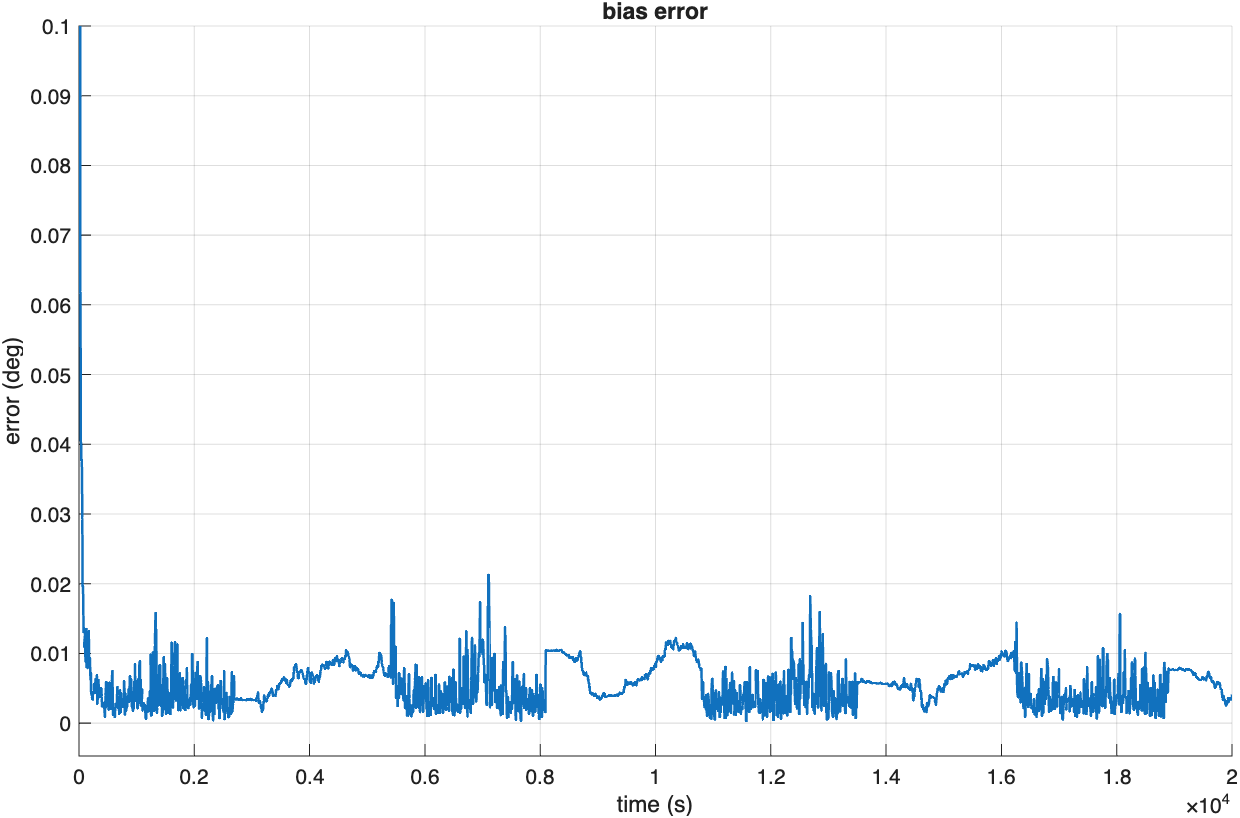
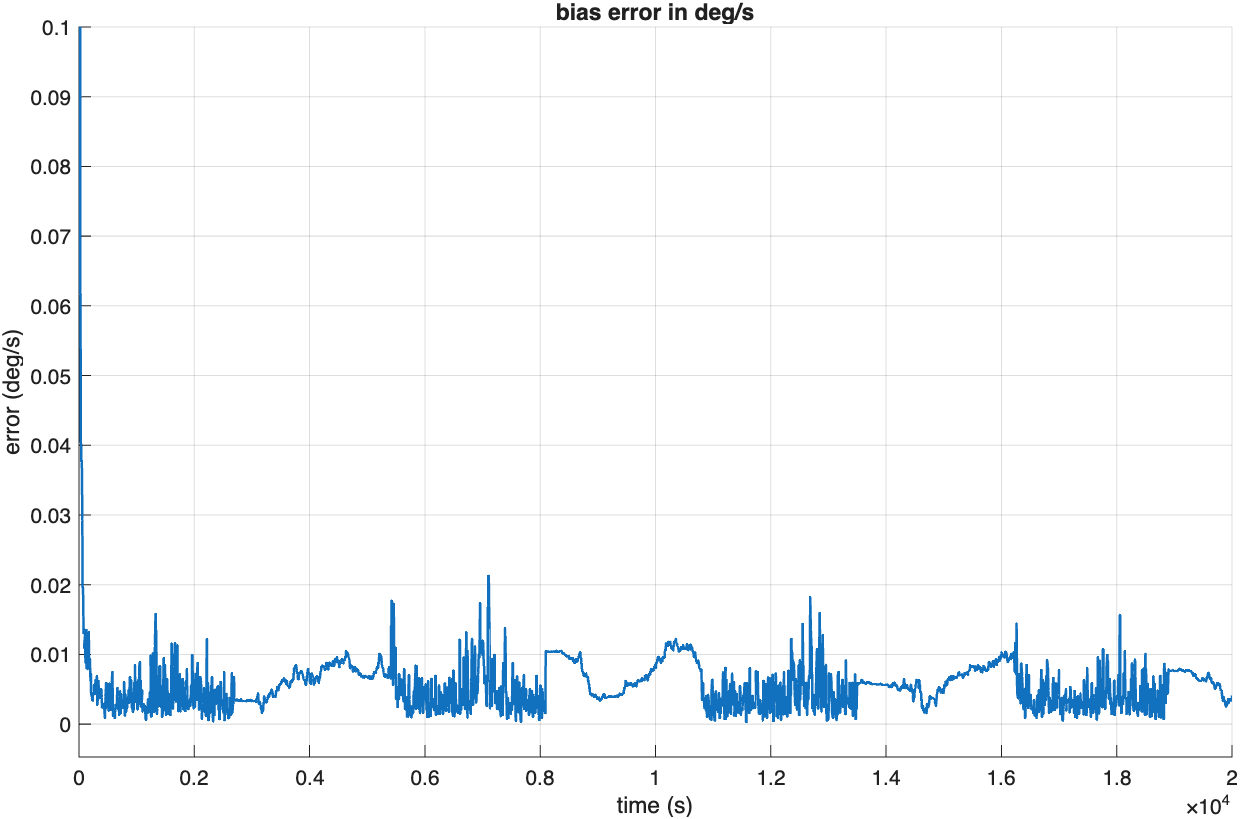
some edits to gyro units

diff --git a/MATLAB/Simulink/CubeSat Simulation Project-3/readmeStats.m b/MATLAB/Simulink/CubeSat Simulation Project-3/readmeStats.m
@@ -107,7 +107,7 @@ function out = readmeStats(file, runIndex, signalName, opts)
     biasName = firstPresent(["b_error" "MATLAB Function:5"], names);
     out.bias = [];
     if biasName ~= "" && biasName ~= signalName
-        out.bias = attitudeStats(file, SignalName=biasName, Units="deg/hr", ...
+        out.bias = attitudeStats(file, SignalName=biasName, Units="deg/s", ...
                                  SegmentSec=opts.SegmentSec, TStart=opts.TStart, ...
                                  RunIndex=runIndex);
         [tb, yb] = loadRunData(file, biasName, RunIndex=runIndex);
@@ -122,7 +122,7 @@ function out = readmeStats(file, runIndex, signalName, opts)
         else
             fprintf("  converged in       never settles inside 10%% of final\n");
         end
-        printByMode(out.bias, "deg/hr");
+        printByMode(out.bias, "deg/s");
     else
         fprintf("\n  (no bias-error signal in this run - skipping the bias table)\n");
     end
@@ -146,7 +146,7 @@ function [label, units] = describeSignal(name)
 %DESCRIBESIGNAL  Readable title and units for a logged signal name.
     switch char(name)
         case {'b_error', 'MATLAB Function:5'}
-            label = "Gyro bias error";  units = "deg/hr";
+            label = "Gyro bias error";  units = "deg/s";
         case {'deg_error', 'MATLAB Function:2', 'AttitudeError', 'error'}
             label = "Attitude error";   units = "deg";
         otherwise

diff --git a/MATLAB/Algorithms/PD_controller.m b/MATLAB/Algorithms/PD_controller.m
@@ -7,7 +7,7 @@
 % tau - torque in N-m, body coordinates
 
 
-function tau = PD_controller(omega, q_error)
+function tau = PD_loop(omega, q_error)
 
     arguments
         omega (3,1) double
@@ -43,6 +43,7 @@ function tau = PD_controller(omega, q_error)
     Kp0 = 0.034;
     Kd0 = 0.42;
     max_tau = 5;
+    min_tau = -5;
     I_body = [3.0054115e-02, -5.1674000e-05, 2.5075000e-05 ;-5.1674000e-05, 1.1430611e-02, -3.6481690e-03 ;2.5075000e-05, -3.6481690e-03, 2.3052295e-02];
     
     Kp = [Kp0, Kp0, Kp0];
@@ -55,5 +56,5 @@ function tau = PD_controller(omega, q_error)
         tau(i) = Pi - Di;
     end
     tau = I_body * tau;
-    tau = min(tau, max_tau);
+    tau = max(min(tau, max_tau), min_tau);
 end

diff --git a/MATLAB/Simulink/CubeSat Simulation Project-3/attitudeStats.m b/MATLAB/Simulink/CubeSat Simulation Project-3/attitudeStats.m
@@ -13,7 +13,7 @@ function stats = attitudeStats(source, opts)
 %       s = attitudeStats(simOut);
 %
 %   Gyro bias error (same maths, different signal and units):
-%       b = attitudeStats(simOut, SignalName="b_error", Units="deg/hr");
+%       b = attitudeStats(simOut, SignalName="b_error", Units="deg/s");
 %
 %   NAME-VALUE
 %     SignalName   Logged signal to read.                    ("deg_error")

diff --git a/Readme.md b/Readme.md
@@ -24,8 +24,7 @@ MATLAB Satellite Scenario Viewer from Simulink model, 50x real time, tracking Pr
 </p>
 
 ## Performance
-I ran many simulations in Simulink to test the preformance of the full algorithm. 
-
+I ran many simulations in Simulink to test the performance of the full algorithm, achieving 0.77° RMS pointing error with two-vector measurements and 3.6° RMS magnetometer-only, against a ±10° requirement.
 
 ### Test conditions
 
@@ -38,20 +37,22 @@ I = \begin{bmatrix}
 2.51\times10^{-5} & -3.65\times10^{-3} & 0.0231
 \end{bmatrix}\ \mathrm{kg\,m^2}
 ```
-- **Sensors:** magnetometer (σ = 10 nT) on a 10 s cadence, photodiodes **not modeled**
-  (the 2-vector mode substitutes a fixed ECI reference vector `[1 0 0]` with 0.01 1σ
-  unit-vector noise), gyro 0.057 °/s noise + (0.115, −0.057, 0.086) °/s constant bias,
+- **Sensors:** magnetometer (σ = 10 nT) on a 10 s cadence, photodiodes modeled with 
+  a fixed sun ECI position at `[1 0 0]` with 0.01 1σ
+  unit-vector noise, gyro 0.057 °/s noise + (0.115, −0.057, 0.086) °/s constant bias,
   sampled at 10 Hz
 - **Actuators:** **ideal torque actuators** — the plant applies the commanded body torque
-  directly, with no magnetorquer dipole model and 5 Nm saturation limit (to be tuned)
-- **Simulation:** 20000s stop time, normal solver, 10 HZ on MUKF, 1 HZ on PD loop 
+  directly, clipped at ±5 N·m, with no magnetorquer dipole model. Real magnetorquers
+  produce ~10⁻⁵ N·m, so the settling times below reflect controller gains, not
+  achievable slew performance.
+- **Simulation:** 20,000 s (5.6 h) stop time, normal solver, 10 Hz on MUKF, 1 Hz on PD loop
 
 ### Monte Carlo Validation on PD controller 
-Ran a 100 trial monte carlo simulation to 300 s with randommized intital angular velocity and attitude to test PD settling. 
+Ran a 100-trial Monte Carlo simulation to 300 s with randomized initial angular velocity and attitude to test PD settling.
 
 <p align="center">
   <img src="MATLAB/docs/monte_carlo.png" width="600" alt="Monte Carlo"><br>
-  <em>Results from 100 trial monte carlo simulation</em>
+  <em>Results from the 100-trial Monte Carlo simulation</em>
 </p>
 
 | Metric | Value |
@@ -65,36 +66,37 @@ Ran a 100 trial monte carlo simulation to 300 s with randommized intital angular
 | Steady-state drift | -3.44×10⁻³ °/s |
 
 ### Attitude accuracy from MUKF
-Error (angular error) between q_est and q_true, and error (norm) between bias_est and bias_true, over 6 hour run in alternating measurement mode.. 
+Error (angular error) between q_est and q_true, and error (norm) between bias_est and bias_true, over a 20,000 s (5.6 h) run in alternating measurement mode, first 300s included.
 
 <p align="center">
   <img src="MATLAB/docs/attitude_error.png" width="600" alt="attitude_error"><br>
-  <em> Error in degrees of MUKF estimated attitude and true attitude <em>
+  <em> Error in degrees of MUKF estimated attitude and true attitude </em>
 </p>
 
 <p align="center">
   <img src="MATLAB/docs/bias_error.png" width="600" alt="bias_error"><br>
-  <em> Error in degree/h of MUKF estimated gyro bias and true gyro bias<em>
+  <em> Error in °/s of MUKF estimated gyro bias and true gyro bias </em>
 </p>
 
 
 | Value | Mode | RMS error | 3-sigma | max |
 | --- | --- | --- | --- | --- |
-| q_estimate | 2-vector (sun + magnetometer) | 0.753° | 1.454° | 4.104° |
+| q_estimate | 2-vector (reference vector + magnetometer) | 0.753° | 1.454° | 4.104° |
 | q_estimate | 1-vector (magnetometer only) | 3.150° | 4.712° | 7.002° |
-| Gyro bias | 2-vector| 0.009 °/hr | 0.023 °/hr | 0.170 °/hr |
-| Gyro bias | 1-vector | 0.007 °/hr | 0.007 °/hr | 0.012 °/hr |
+| Gyro bias | 2-vector | 0.009 °/s | 0.023 °/s | 0.170 °/s |
+| Gyro bias | 1-vector | 0.007 °/s | 0.007 °/s | 0.012 °/s |
 
 ### Pointing Error
-Degrees of error away from pointing at providence, with the first 300s (settling) excluded. Mission requirment is 10 degrees.
+Degrees of error away from pointing at Providence, with the first 300 s (settling) excluded. Mission requirement is ±10°.
 
 <p align="center">
-  <img src="MATLAB/docs/pointing_error.png" width="600" alt="Pointing_error"><br>
+  <img src="MATLAB/docs/pointing_error.png" width="600" alt="Pointing error vs time: under 4° in two-vector windows, up to 9.7° in the shaded magnetometer-only windows"><br>
+  <em>Pointing error vs time; shaded windows are magnetometer-only</em>
 </p>
 
 | Mode | RMS | 3-sigma | Max |
 | --- | --- | --- | --- |
-| 2-vector (sun + magnetometer) | 0.765° | 1.231° | 3.878° |
+| 2-vector (reference vector + magnetometer) | 0.765° | 1.231° | 3.878° |
 | 1-vector (magnetometer only) | 3.579° | 6.490° | 9.745° |
 
 ### Component verification
@@ -104,7 +106,7 @@ Individual tests for each script.
 | --- | --- | --- |
 | `propagate_orbital_elements` | `propagateOrbit` / `ijk2keplerian` | 1e-8° over a 2 h arc, e in [0.05, 0.95] |
 | `magnetosphere` | `wrldmagm` | exact to 10 different common locations |
-| `pointing_error` | Aerospace Blockset nadir-pointing block | exact over 20000s orbit |
+| `pointing_error` | Aerospace Blockset nadir-pointing block | exact over a 20,000 s run |
 
 ## Running it
 
@@ -115,10 +117,10 @@ inside that model.
 
 Requires MATLAB, Simulink, Aerospace Blockset, and Aerospace Toolbox.
 
-To run the Monte Carlo study, open the file in matlab with the Simulink model open, then call
+To run the Monte Carlo study, open the file in MATLAB with the Simulink model open, then call
 
 ```matlab
-r = runCubeSatMonteCarlo(NumTrials=100, StopTime=900, SettleTolDeg=1.5);
+r = runCubeSatMonteCarlo(NumTrials=100, StopTime=300, SettleTolDeg=2);
 summary(r)
 ```
 
@@ -128,7 +130,7 @@ summary(r)
 | --- | --- |
 | [`MATLAB/Algorithms/`](MATLAB/Algorithms) | The algorithms, as standalone `.m` files |
 | [`MATLAB/Simulink/CubeSat Simulation Project-3/`](MATLAB/Simulink/CubeSat%20Simulation%20Project-3) | The full Simulink project and model |
-| [`MATLAB/docs/`](MATLAB/docs) | Demo gif |
+| [`MATLAB/docs/`](MATLAB/docs) | Demo gif and performance plots |
 | [`C/`](C) | C port, other algorithms to be added |
 
 
@@ -146,7 +148,7 @@ WMM2025 spherical-harmonic field model. I integrated it into the Simulink contro
 
 Multiplicative unscented Kalman filter, 6-state error
 (3 attitude + 3 gyro bias), 13 sigma points, switching between a two-vector
-(sun + magnetometer) and magnetometer-only measurement mode, filter core written by @david-man. I got it to work with the PD controller in the Simulink model. Specific fixes I did:
+(reference vector + magnetometer) and magnetometer-only measurement mode, filter core written by @david-man. I got it to work with the PD controller in the Simulink model. Specific fixes I did:
 
 - **`omega_icrf2b` 0 in Simulink** - fed in w_eci2b output from the dynamics block, changing the convention from NED and reconfigured quaternion outputs to match, to avoid quaternion finite difference inaccuracy
 - **Quaternion backwards bug** - identified and helped fix a bug in quaternions being inverted (active vs passive convention) causing w_estimate to be off.
@@ -162,7 +164,7 @@ quaternion, and returns the error quaternion in body coordinates.
 
 ### PD controller — [`PD_controller.m`](MATLAB/Algorithms/PD_controller.m)
 - Converts the error quaternion and body rates to axis-angle, applies proportional and derivative gains per axis, scales by the measured inertia tensor, and saturates the commanded torque.
-- Takes the shortest-rotation so that when the scalar of q_error is negative, it negates the quaternion and has small-angle guards on both the axis extraction and the rate normalization. Co-developed with @aPizzaRat.
+- Takes the shortest-rotation so that when the scalar of q_error is negative, it negates the quaternion and has small-angle guards on both the axis extraction and the rate normalization. Co-developed with @aPizzaRat
 
 
 ### Detumbling — [`Bdot.m`](MATLAB/Algorithms/Bdot.m)
